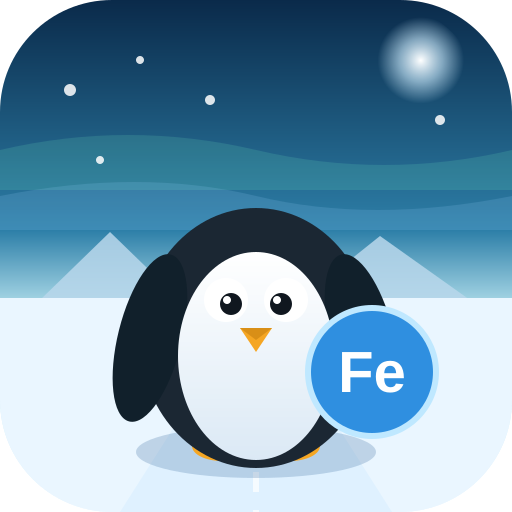
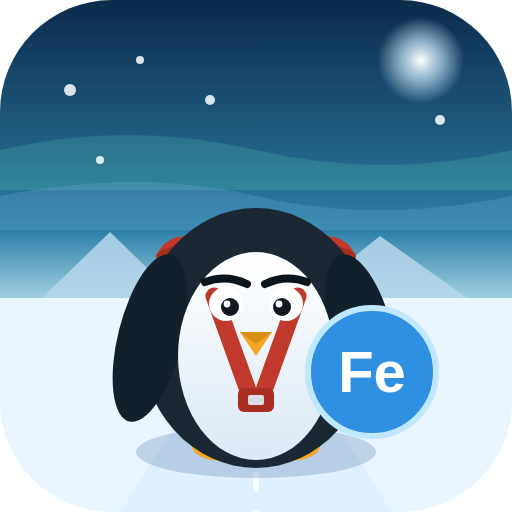
배낭 채움 속도 ↓ + 앱 아이콘 펭귄을 빨간 배낭 멘 진중한 인상으로
- 배낭 fill 기준 12 → 26개로(더 천천히 빵빵해짐)
- icon.svg: 배경 유지, 펭귄을 빨간 배낭(어깨 위 + 가슴 끈·버클) 멘
  + 눈썹/작은 눈으로 좀 더 나이 있어 보이는 인상으로 변경
- icon-512/192/180·favicon 새 SVG로 재생성. 캐시 v=44

diff --git a/js/game.js b/js/game.js
@@ -2291,7 +2291,7 @@
     // 빨간 배낭(등) — 캔이 늘수록 홀쭉 → 뚱뚱하게 부푼다
     {
       const pn = (typeof stored !== "undefined" && stored) ? stored.length : 0;
-      const pf = Math.min(1, pn / 12);
+      const pf = Math.min(1, pn / 26);                 // 더 천천히 빵빵해짐
       const cyp = -4, rx = 3.4 + 6.6 * pf, ry = 7 + 3.2 * pf, topY = cyp - ry;
       ctx.strokeStyle = "#a82e22"; ctx.lineWidth = 1.5; ctx.lineCap = "round";    // 어깨끈
       ctx.beginPath(); ctx.moveTo(-rx * 0.5, topY + 1); ctx.lineTo(-4.5, -16); ctx.moveTo(rx * 0.5, topY + 1); ctx.lineTo(4.5, -16); ctx.stroke();

diff --git a/index.html b/index.html
@@ -16,7 +16,7 @@
   <meta name="apple-mobile-web-app-status-bar-style" content="black-translucent" />
   <meta name="apple-mobile-web-app-title" content="원소 슈터" />
 
-  <link rel="stylesheet" href="css/style.css?v=43" />
+  <link rel="stylesheet" href="css/style.css?v=44" />
 </head>
 <body>
   <div id="game-wrap">
@@ -95,7 +95,7 @@
     </div>
   </div>
 
-  <script src="js/elements.js?v=43"></script>
-  <script src="js/game.js?v=43"></script>
+  <script src="js/elements.js?v=44"></script>
+  <script src="js/game.js?v=44"></script>
 </body>
 </html>
